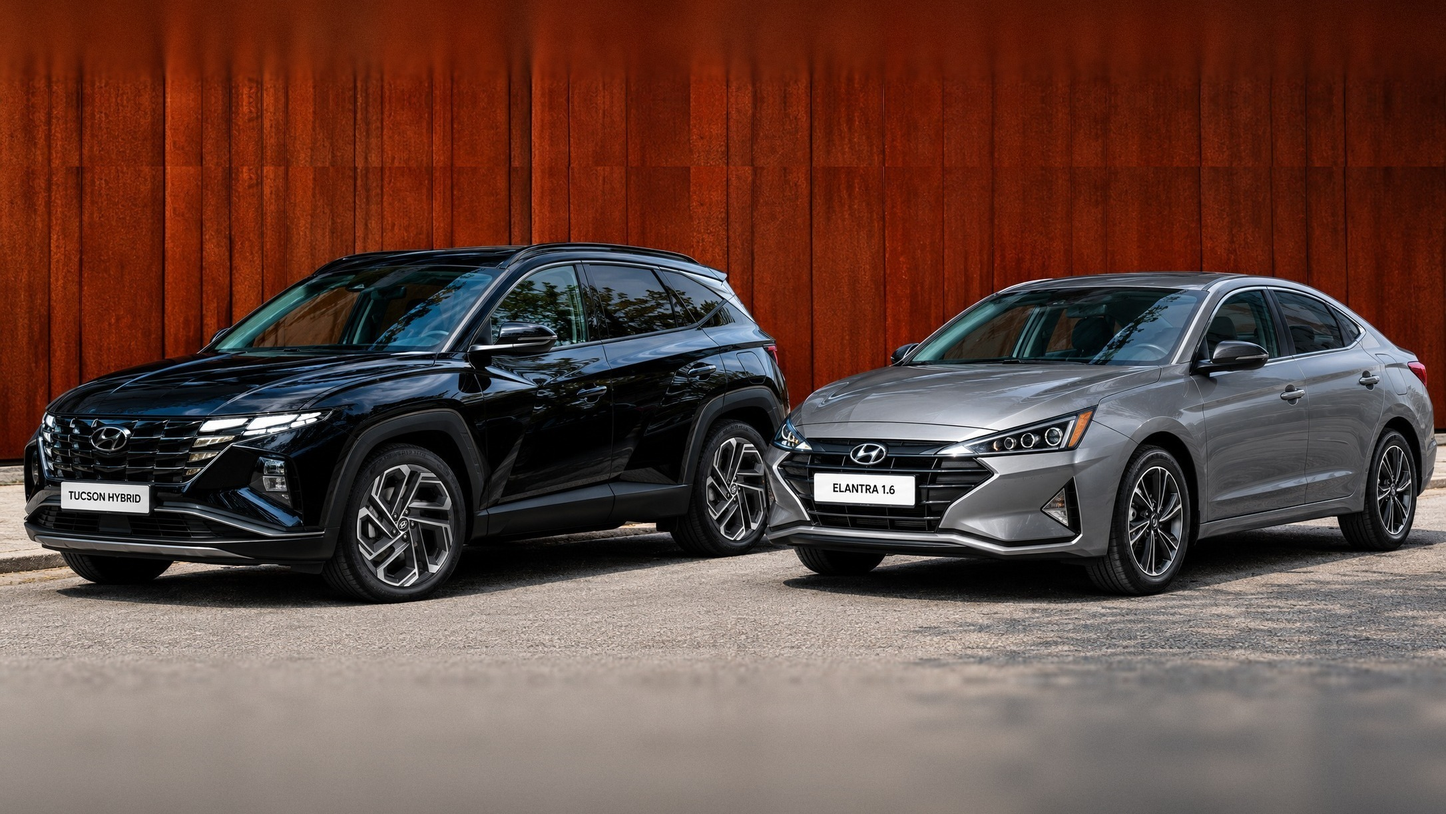
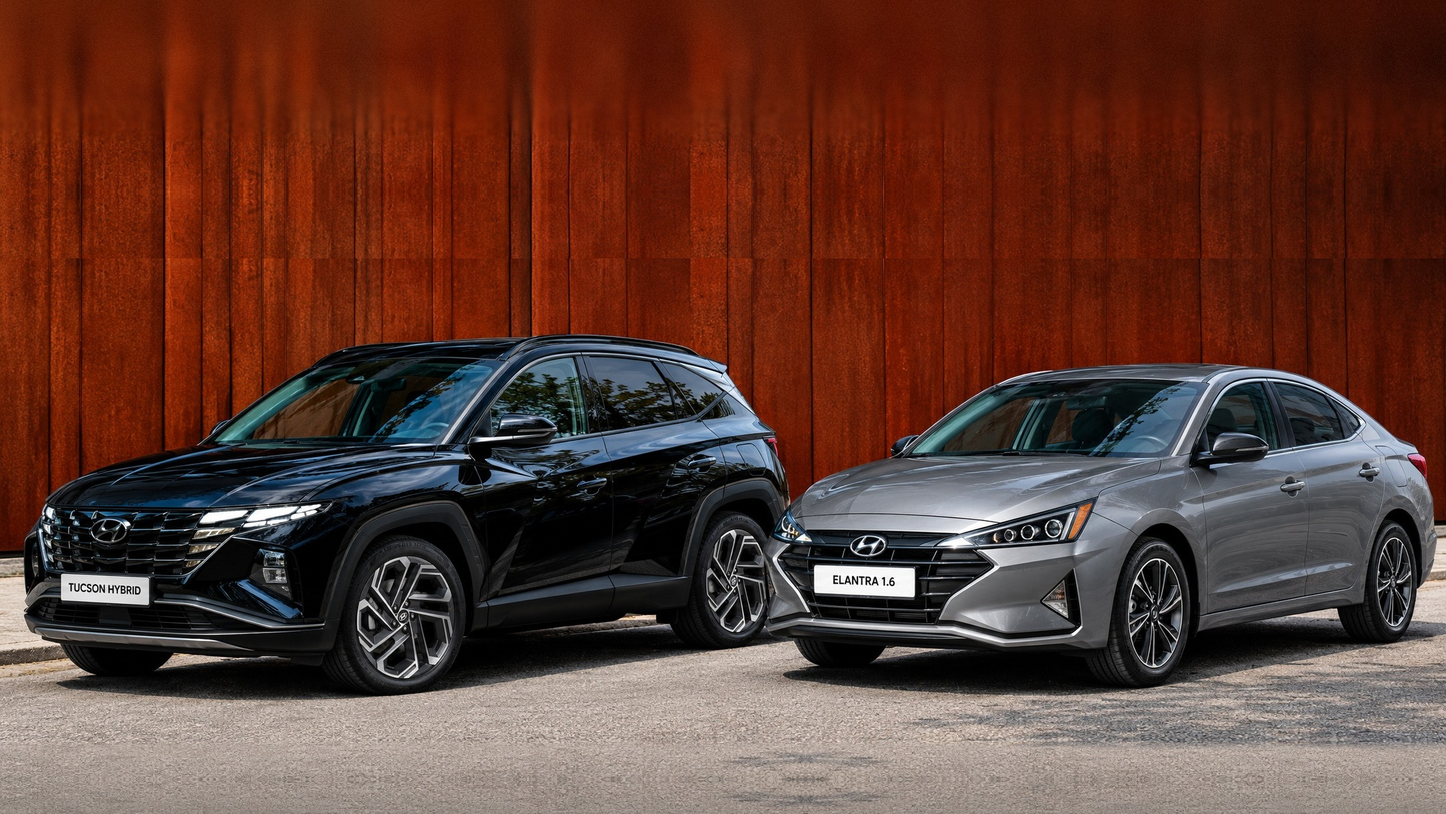
Rebuild hero photo extension without the blurred road
The soft-focus road band looked poor. Extended the photo mostly with
more rust wall above (which extends naturally) and filled the small
amount of road below with real sharp asphalt texture taken from the
photo itself, so there is no blur and no visible seam. Framing biased
toward the road so both cars sit fully in the full-page hero.

diff --git a/lib/data.ts b/lib/data.ts
@@ -546,7 +546,7 @@ export const heroSlides: HeroSlide[] = [
     subtitle: "Pakistan’s first hybrid sedan",
     cta: { label: "Find Out More", href: "/models/elantra-hybrid" },
     image: "/images/hero/landing-hero-wide.jpg",
-    imagePosition: "object-[62%_center]",
+    imagePosition: "object-[62%_center] md:object-[center_72%]",
   },
   {
     id: "ioniq-5",
